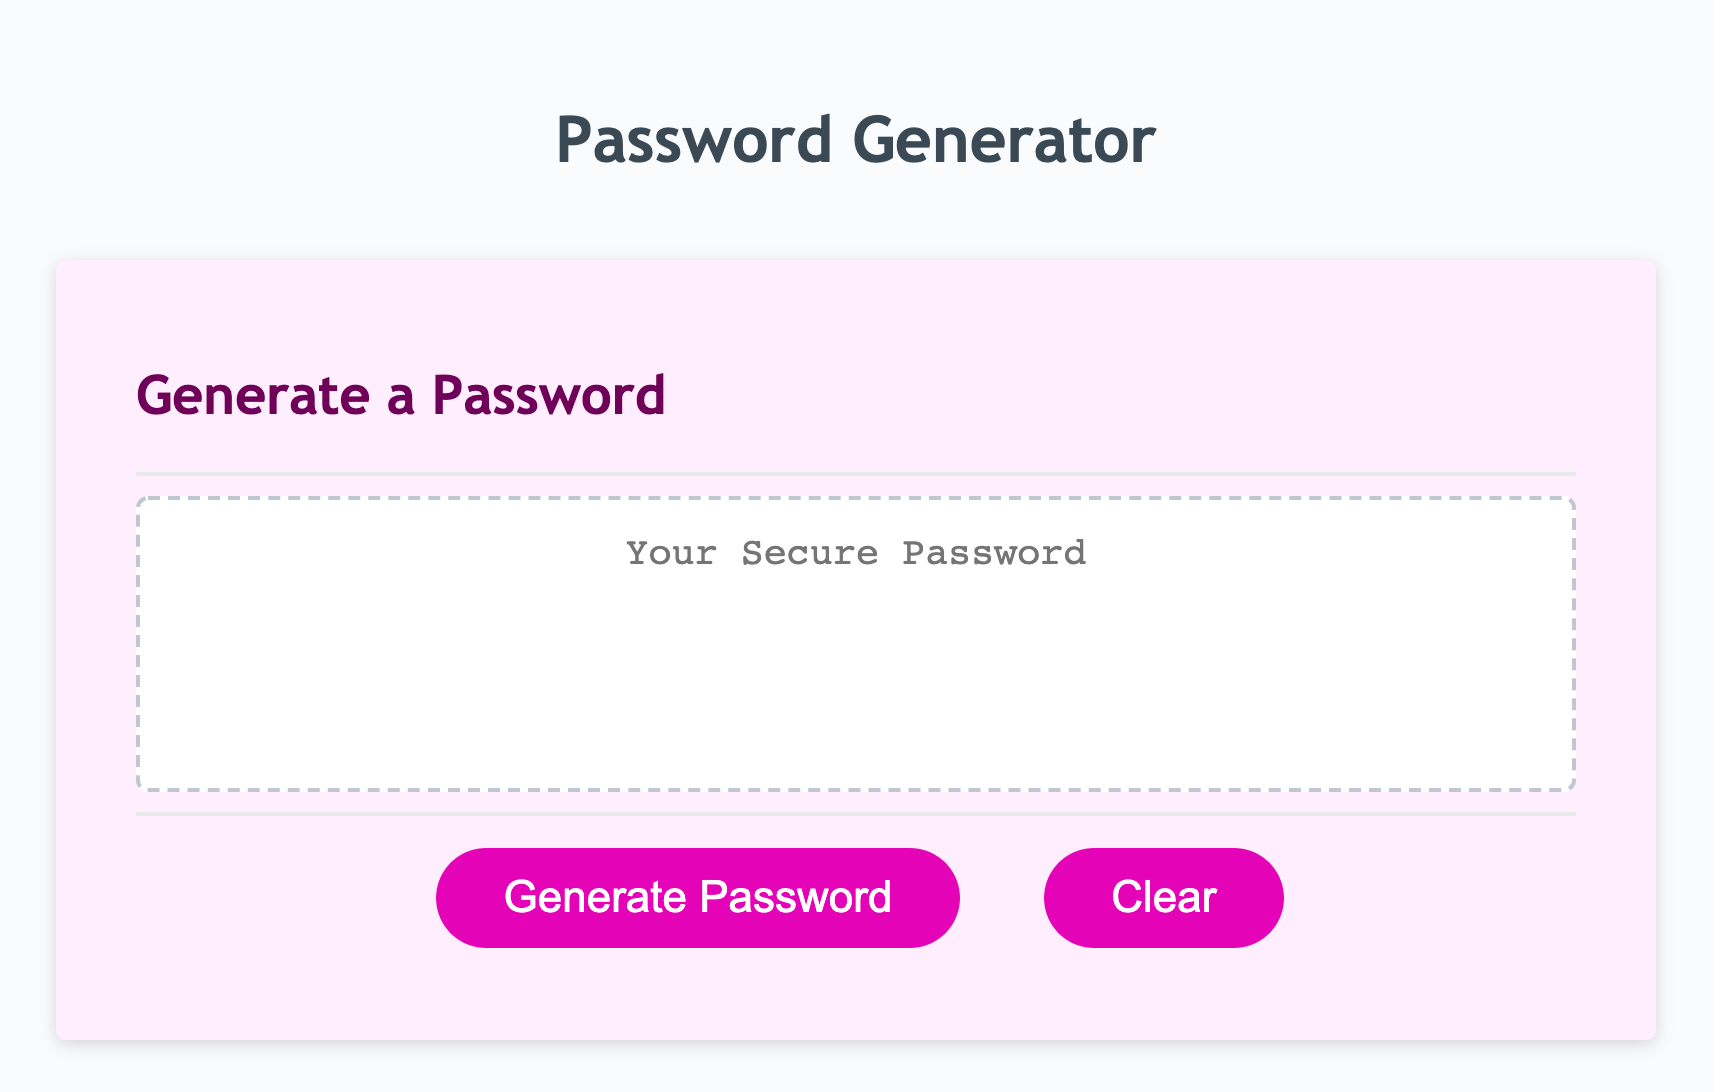
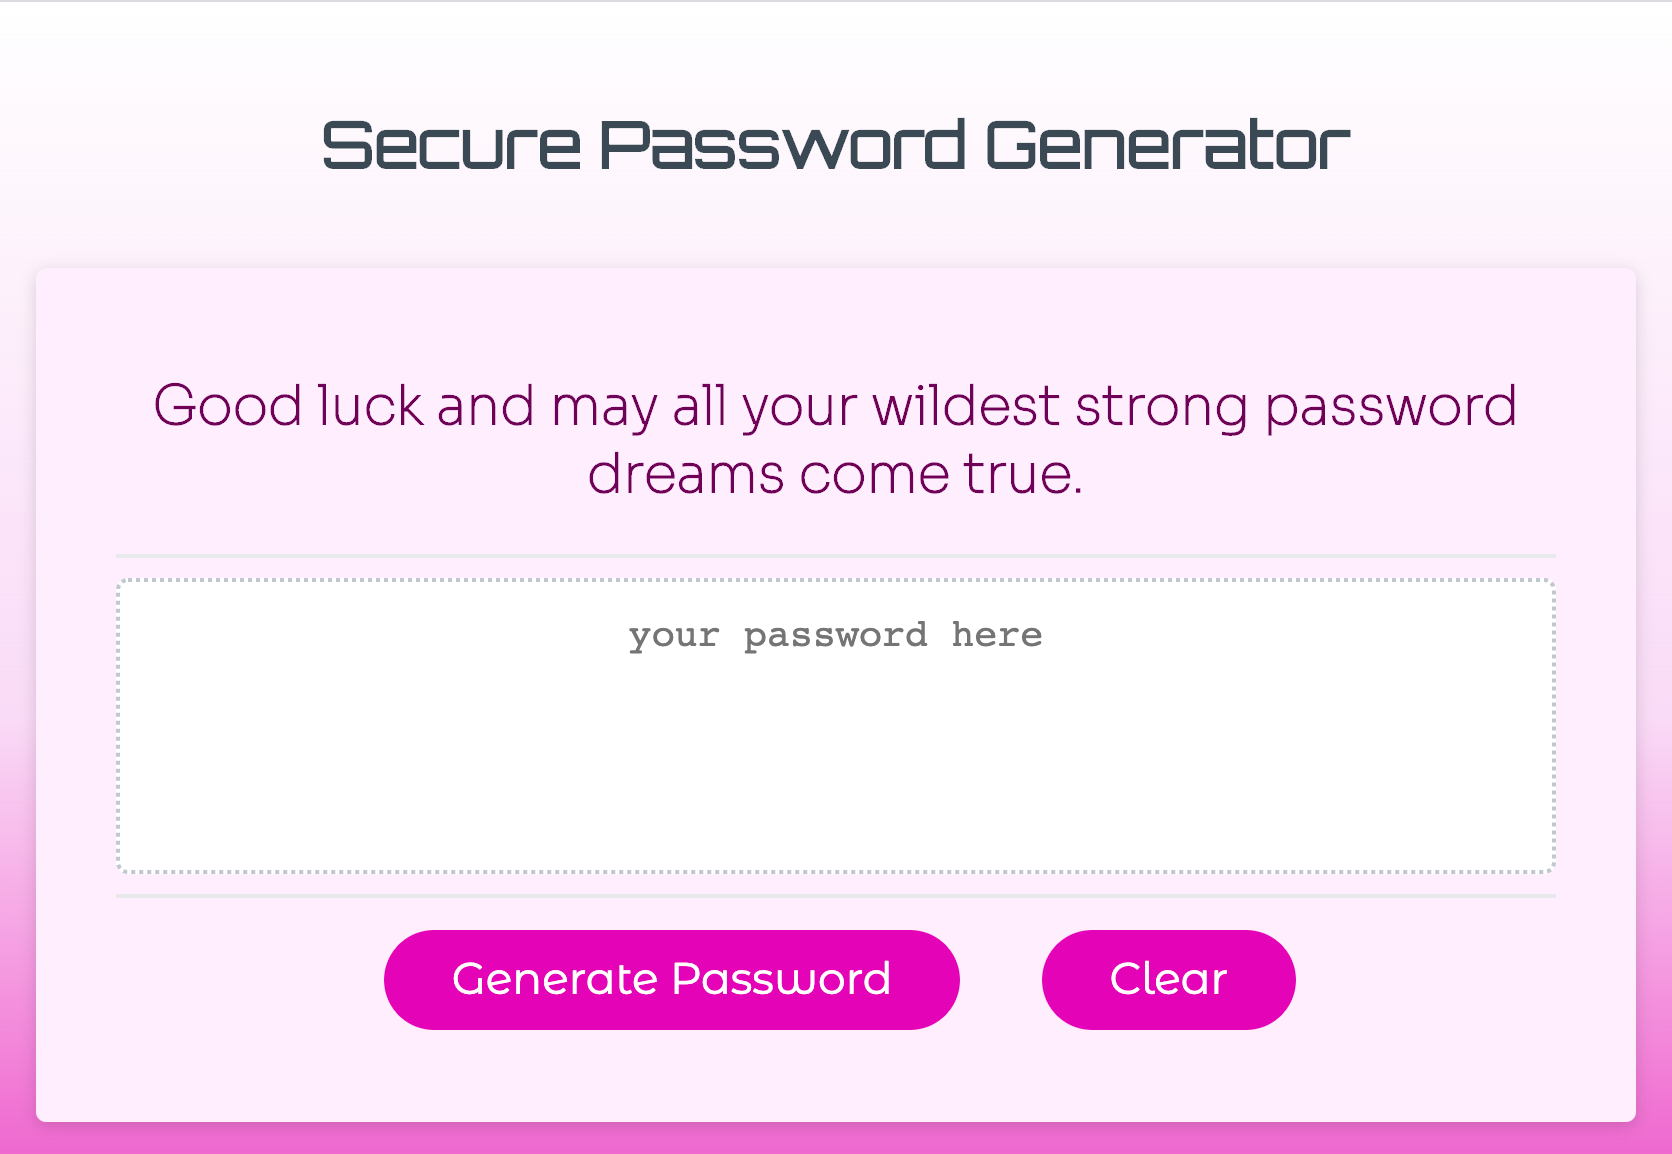
last minute zhuzh

diff --git a/index.html b/index.html
@@ -5,16 +5,19 @@
     <meta name="viewport" content="width=device-width, initial-scale=1.0" />
     <meta http-equiv="X-UA-Compatible" content="ie=edge" />
     <title>Password Generator</title>
+    <link href="https://fonts.googleapis.com/css2?family=Montserrat+Alternates&family=Orbitron&family=Sora:wght@100&display=swap" rel="stylesheet">
     <link rel="stylesheet" href="style.css" />
   </head>
   <body>
     <div class="wrapper">
       <header>
-        <h1>Password Generator</h1>
+        <h1>Secure Password Generator</h1>
       </header>
       <div class="card">
         <div class="card-header">
-          <h2>Generate a Password</h2>
+          <h2>
+              Good luck and may all your wildest strong password dreams come true.
+          </h2>
         </div>
         <div class="card-body">
           <textarea

diff --git a/style.css b/style.css
@@ -13,7 +13,7 @@ body,
 }
 
 body {
-  font-family: 'Gill Sans', 'Gill Sans MT', Calibri, 'Trebuchet MS', sans-serif;
+  font-family: 'Sora', sans-serif;
   background-image: linear-gradient(white, #FADBF8, #E500B9);
 }
 
@@ -25,6 +25,7 @@ body {
 
 header {
   text-align: center;
+  font-family: 'Orbitron', sans-serif;
   padding: 20px;
   padding-top: 0px;
   color: hsl(206, 17%, 28%);
@@ -40,6 +41,7 @@ header {
   margin: 0 auto;
   max-width: 800px;
   padding: 30px 40px;
+  text-align: center;
 }
 
 .card-header::after {
@@ -85,6 +87,7 @@ header {
   margin: 16px 16px 16px 20px;
   padding: 14px 34px;
   text-align: center;
+  font-family: 'Montserrat Alternates', sans-serif;
   cursor: pointer;
 }
 

diff --git a/script.js b/script.js
@@ -59,7 +59,7 @@ let upperCase = [
 
 let numbers = ["1", "2", "3", "4", "5", "6", "7", "8", "9", "0"];
 
-let special = ["!", "@", "#", "$", "%", "^", "&", "*", "(", ")", "-", "_"];
+let special = ["!", "@", "#", "$", "%", "^", "&", "*", "(", ")", "-", "_", "+", "="];
 
 // program starts when user clicks button
 var generateMe = document.getElementById("generate");
